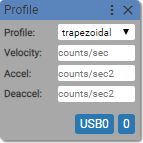
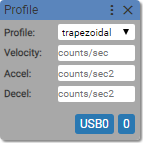
Deploy website
Deploy website version based on 62f0f5fd0688c2b8a209086f4076aab52c5243bf

Changed region(s): [[0.1119, 0.6154, 0.3077, 0.6993]]

diff --git a/docs/guideArray2.html b/docs/guideArray2.html
@@ -32,7 +32,7 @@
 <p><a href="https://www.youtube.com/watch?v=ebHxsyUTJYk"><img src="https://img.youtube.com/vi/ebHxsyUTJYk/0.jpg" alt="IMAGE ALT TEXT HERE"></a></p>
 <h2><a class="anchor" aria-hidden="true" id="motors-setup-for-x-y-and-z-axes"></a><a href="#motors-setup-for-x-y-and-z-axes" aria-hidden="true" class="hash-link"><svg class="hash-link-icon" aria-hidden="true" height="16" version="1.1" viewBox="0 0 16 16" width="16"><path fill-rule="evenodd" d="M4 9h1v1H4c-1.5 0-3-1.69-3-3.5S2.55 3 4 3h4c1.45 0 3 1.69 3 3.5 0 1.41-.91 2.72-2 3.25V8.59c.58-.45 1-1.27 1-2.09C10 5.22 8.98 4 8 4H4c-.98 0-2 1.22-2 2.5S3 9 4 9zm9-3h-1v1h1c1 0 2 1.22 2 2.5S13.98 12 13 12H9c-.98 0-2-1.22-2-2.5 0-.83.42-1.64 1-2.09V6.25c-1.09.53-2 1.84-2 3.25C6 11.31 7.55 13 9 13h4c1.45 0 3-1.69 3-3.5S14.5 6 13 6z"></path></svg></a>Motors setup for X, Y and Z axes</h2>
 <h3><a class="anchor" aria-hidden="true" id="step-1-configuring-mode-and-profile-blocks"></a><a href="#step-1-configuring-mode-and-profile-blocks" aria-hidden="true" class="hash-link"><svg class="hash-link-icon" aria-hidden="true" height="16" version="1.1" viewBox="0 0 16 16" width="16"><path fill-rule="evenodd" d="M4 9h1v1H4c-1.5 0-3-1.69-3-3.5S2.55 3 4 3h4c1.45 0 3 1.69 3 3.5 0 1.41-.91 2.72-2 3.25V8.59c.58-.45 1-1.27 1-2.09C10 5.22 8.98 4 8 4H4c-.98 0-2 1.22-2 2.5S3 9 4 9zm9-3h-1v1h1c1 0 2 1.22 2 2.5S13.98 12 13 12H9c-.98 0-2-1.22-2-2.5 0-.83.42-1.64 1-2.09V6.25c-1.09.53-2 1.84-2 3.25C6 11.31 7.55 13 9 13h4c1.45 0 3-1.69 3-3.5S14.5 6 13 6z"></path></svg></a>Step 1. Configuring Mode and Profile blocks</h3>
-<p>Drag and drop Mode and Profile blocks onto the visual programming workspace for X, Y and Z axes. Define the motor type, motion mode, profile, velocity, acceleration and deacceleration.</p>
+<p>Drag and drop Mode and Profile blocks onto the visual programming workspace for X, Y and Z axes. Define the motor type, motion mode, profile, velocity, acceleration and deceleration.</p>
 <blockquote>
 <p>Note: 0 is X; 1 is Y; 2 is Z.</p>
 </blockquote>

diff --git a/docs/guideArray2/index.html b/docs/guideArray2/index.html
@@ -32,7 +32,7 @@
 <p><a href="https://www.youtube.com/watch?v=ebHxsyUTJYk"><img src="https://img.youtube.com/vi/ebHxsyUTJYk/0.jpg" alt="IMAGE ALT TEXT HERE"></a></p>
 <h2><a class="anchor" aria-hidden="true" id="motors-setup-for-x-y-and-z-axes"></a><a href="#motors-setup-for-x-y-and-z-axes" aria-hidden="true" class="hash-link"><svg class="hash-link-icon" aria-hidden="true" height="16" version="1.1" viewBox="0 0 16 16" width="16"><path fill-rule="evenodd" d="M4 9h1v1H4c-1.5 0-3-1.69-3-3.5S2.55 3 4 3h4c1.45 0 3 1.69 3 3.5 0 1.41-.91 2.72-2 3.25V8.59c.58-.45 1-1.27 1-2.09C10 5.22 8.98 4 8 4H4c-.98 0-2 1.22-2 2.5S3 9 4 9zm9-3h-1v1h1c1 0 2 1.22 2 2.5S13.98 12 13 12H9c-.98 0-2-1.22-2-2.5 0-.83.42-1.64 1-2.09V6.25c-1.09.53-2 1.84-2 3.25C6 11.31 7.55 13 9 13h4c1.45 0 3-1.69 3-3.5S14.5 6 13 6z"></path></svg></a>Motors setup for X, Y and Z axes</h2>
 <h3><a class="anchor" aria-hidden="true" id="step-1-configuring-mode-and-profile-blocks"></a><a href="#step-1-configuring-mode-and-profile-blocks" aria-hidden="true" class="hash-link"><svg class="hash-link-icon" aria-hidden="true" height="16" version="1.1" viewBox="0 0 16 16" width="16"><path fill-rule="evenodd" d="M4 9h1v1H4c-1.5 0-3-1.69-3-3.5S2.55 3 4 3h4c1.45 0 3 1.69 3 3.5 0 1.41-.91 2.72-2 3.25V8.59c.58-.45 1-1.27 1-2.09C10 5.22 8.98 4 8 4H4c-.98 0-2 1.22-2 2.5S3 9 4 9zm9-3h-1v1h1c1 0 2 1.22 2 2.5S13.98 12 13 12H9c-.98 0-2-1.22-2-2.5 0-.83.42-1.64 1-2.09V6.25c-1.09.53-2 1.84-2 3.25C6 11.31 7.55 13 9 13h4c1.45 0 3-1.69 3-3.5S14.5 6 13 6z"></path></svg></a>Step 1. Configuring Mode and Profile blocks</h3>
-<p>Drag and drop Mode and Profile blocks onto the visual programming workspace for X, Y and Z axes. Define the motor type, motion mode, profile, velocity, acceleration and deacceleration.</p>
+<p>Drag and drop Mode and Profile blocks onto the visual programming workspace for X, Y and Z axes. Define the motor type, motion mode, profile, velocity, acceleration and deceleration.</p>
 <blockquote>
 <p>Note: 0 is X; 1 is Y; 2 is Z.</p>
 </blockquote>

diff --git a/docs/get_started.html b/docs/get_started.html
@@ -80,7 +80,7 @@
 </ul>
 <p><em>Velocity</em>: positive integer [<em>counts/sec</em>]</p>
 <p><em>Acceleration</em>: positive integer [<em>counts/sec^2</em>]</p>
-<p><em>Deacceleration</em>: positive integer [<em>counts/sec^2</em>]</p>
+<p><em>Deceleration</em>: positive integer [<em>counts/sec^2</em>]</p>
 <p><em>Jerk</em>: positive integer [<em>counts/sec^3</em>]</p>
 <p>Sets the motion <strong><em>profile</em></strong>, <strong><em>velocity</em></strong>, <strong><em>acceleration</em></strong>, <strong><em>deaceleration</em></strong> and <strong><em>jerk</em></strong> for axis <code>0</code> on the port <code>USB0</code>.</p>
 <h4><a class="anchor" aria-hidden="true" id="move"></a><a href="#move" aria-hidden="true" class="hash-link"><svg class="hash-link-icon" aria-hidden="true" height="16" version="1.1" viewBox="0 0 16 16" width="16"><path fill-rule="evenodd" d="M4 9h1v1H4c-1.5 0-3-1.69-3-3.5S2.55 3 4 3h4c1.45 0 3 1.69 3 3.5 0 1.41-.91 2.72-2 3.25V8.59c.58-.45 1-1.27 1-2.09C10 5.22 8.98 4 8 4H4c-.98 0-2 1.22-2 2.5S3 9 4 9zm9-3h-1v1h1c1 0 2 1.22 2 2.5S13.98 12 13 12H9c-.98 0-2-1.22-2-2.5 0-.83.42-1.64 1-2.09V6.25c-1.09.53-2 1.84-2 3.25C6 11.31 7.55 13 9 13h4c1.45 0 3-1.69 3-3.5S14.5 6 13 6z"></path></svg></a>Move</h4>

diff --git a/docs/get_started/index.html b/docs/get_started/index.html
@@ -80,7 +80,7 @@
 </ul>
 <p><em>Velocity</em>: positive integer [<em>counts/sec</em>]</p>
 <p><em>Acceleration</em>: positive integer [<em>counts/sec^2</em>]</p>
-<p><em>Deacceleration</em>: positive integer [<em>counts/sec^2</em>]</p>
+<p><em>Deceleration</em>: positive integer [<em>counts/sec^2</em>]</p>
 <p><em>Jerk</em>: positive integer [<em>counts/sec^3</em>]</p>
 <p>Sets the motion <strong><em>profile</em></strong>, <strong><em>velocity</em></strong>, <strong><em>acceleration</em></strong>, <strong><em>deaceleration</em></strong> and <strong><em>jerk</em></strong> for axis <code>0</code> on the port <code>USB0</code>.</p>
 <h4><a class="anchor" aria-hidden="true" id="move"></a><a href="#move" aria-hidden="true" class="hash-link"><svg class="hash-link-icon" aria-hidden="true" height="16" version="1.1" viewBox="0 0 16 16" width="16"><path fill-rule="evenodd" d="M4 9h1v1H4c-1.5 0-3-1.69-3-3.5S2.55 3 4 3h4c1.45 0 3 1.69 3 3.5 0 1.41-.91 2.72-2 3.25V8.59c.58-.45 1-1.27 1-2.09C10 5.22 8.98 4 8 4H4c-.98 0-2 1.22-2 2.5S3 9 4 9zm9-3h-1v1h1c1 0 2 1.22 2 2.5S13.98 12 13 12H9c-.98 0-2-1.22-2-2.5 0-.83.42-1.64 1-2.09V6.25c-1.09.53-2 1.84-2 3.25C6 11.31 7.55 13 9 13h4c1.45 0 3-1.69 3-3.5S14.5 6 13 6z"></path></svg></a>Move</h4>
